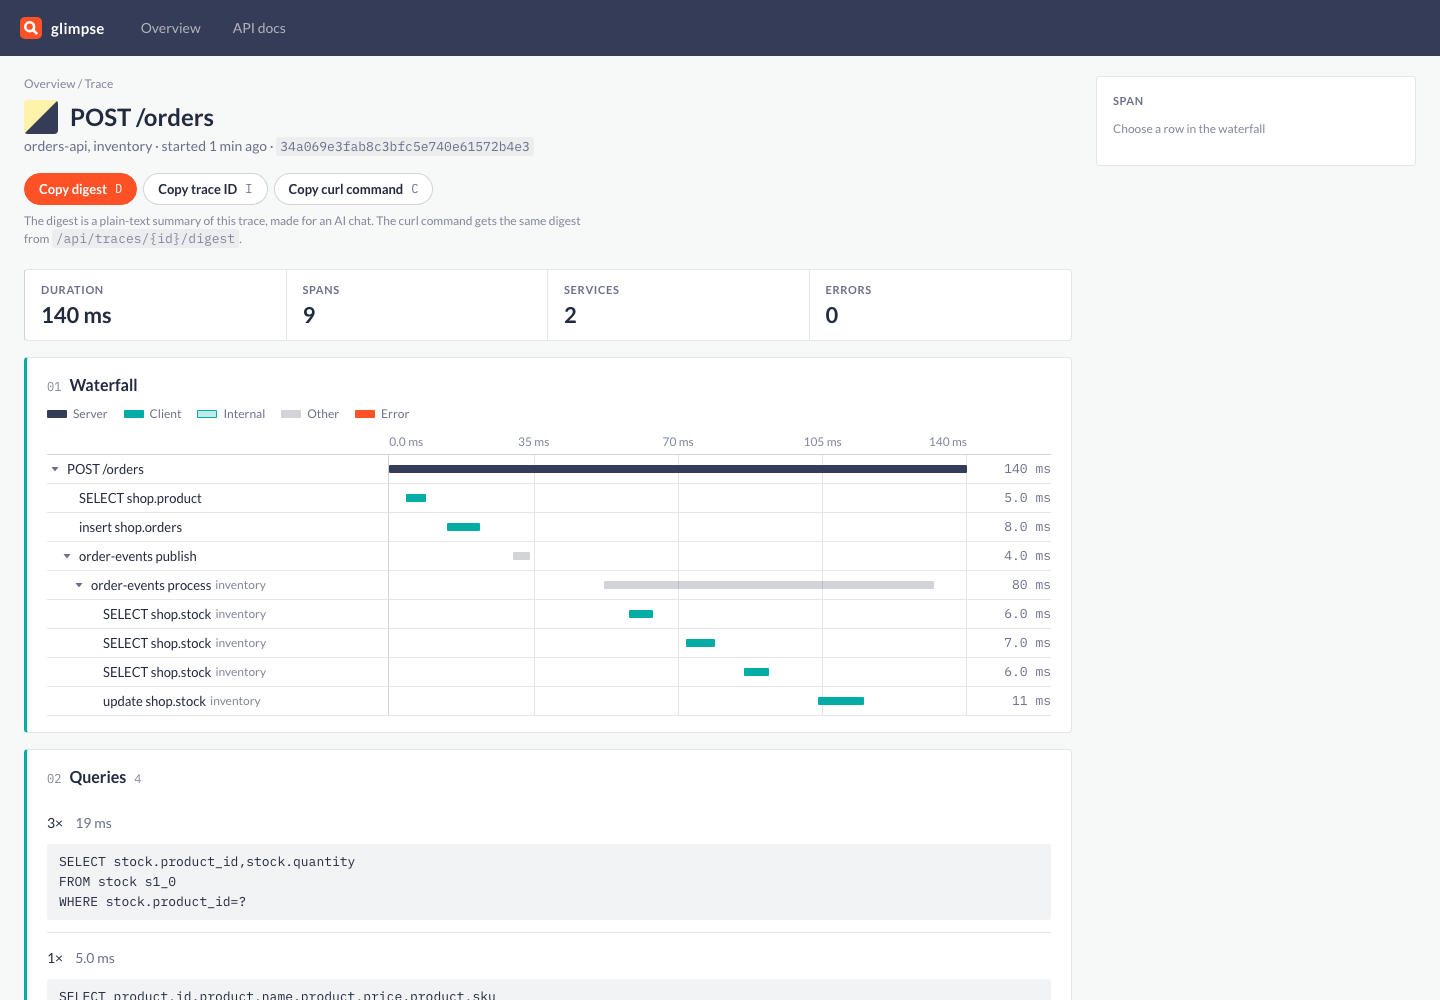
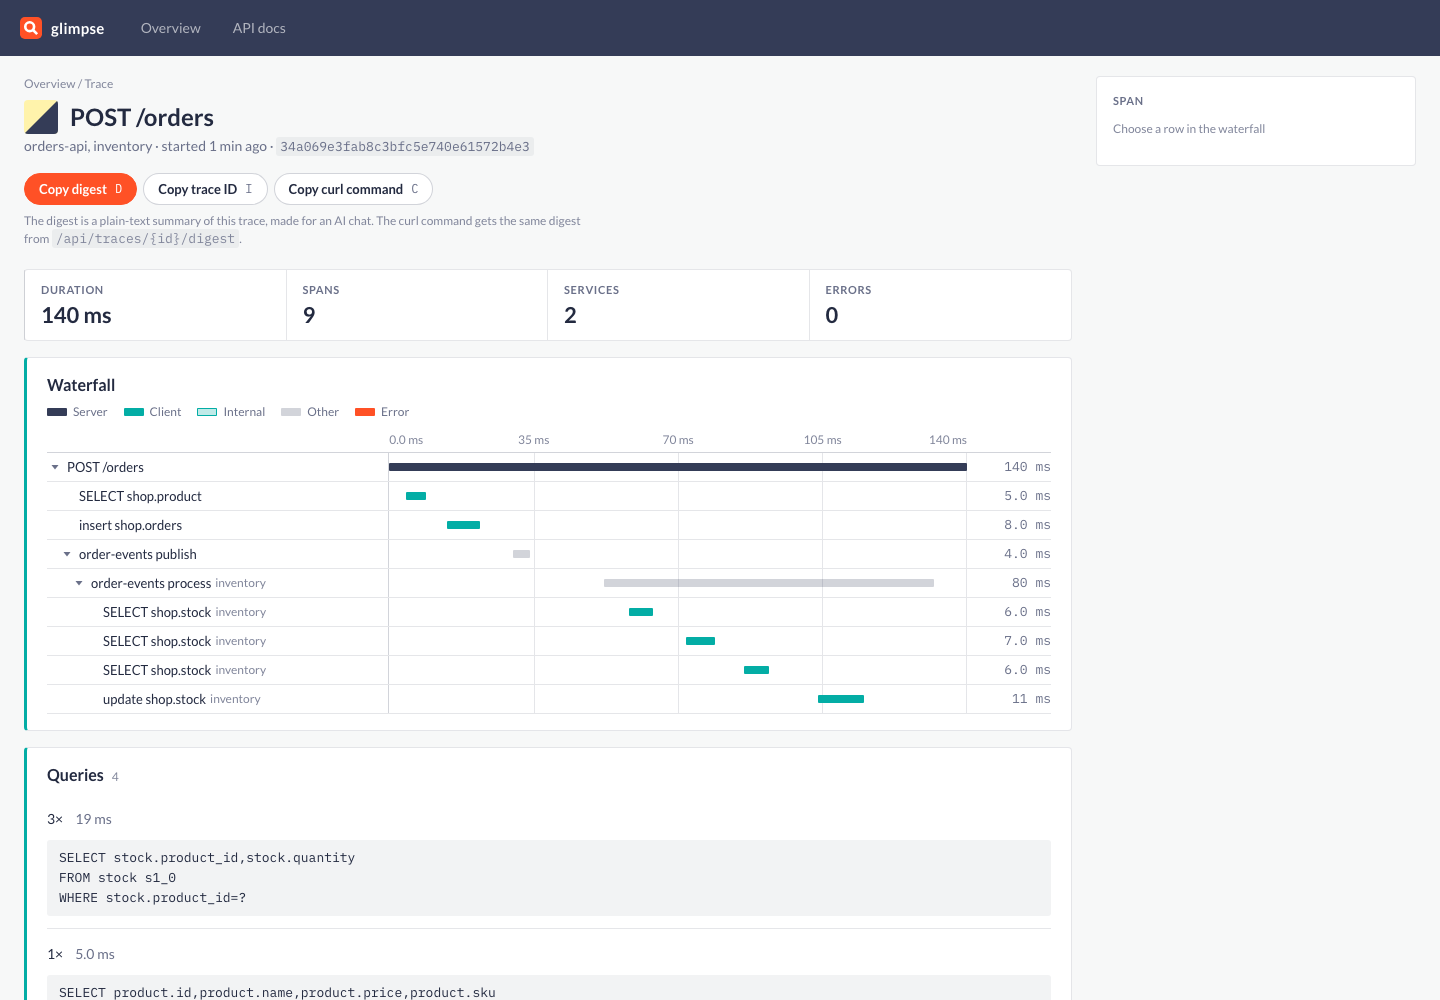
feat: tabs on the overview page, Explain sends db_system
The overview shows one tab at a time (Endpoints, N+1 suspects, Slow
queries, Errors) in place of one long scroll. The tab is in the URL
(#tab=...), and j/k and the arrow keys change it.

The Explain button sends the db_system of the statement, so the right
engine is used when SQL Server and Postgres are both configured.
/api/insights N+1 rows now have db_system.

Closes #2
Closes #3

Claude-Session: https://claude.ai/code/session_01HDKGEbKxBcKCVtWTQQ9KBN

diff --git a/cmd/server/ui/index.html b/cmd/server/ui/index.html
@@ -46,7 +46,7 @@
       padding: var(--space-5) var(--space-6) var(--space-8); }
 
   /* page */
-  .page { display: grid; grid-template-columns: minmax(0, 1fr) var(--page-index); column-gap: var(--space-6); }
+  .page { display: grid; grid-template-columns: minmax(0, 1fr); column-gap: var(--space-6); }
   .page.trace { grid-template-columns: minmax(0, 1fr) 320px; }
   .content { min-width: 0; }
   .crumb { font: 400 12px/16px var(--font-sans); color: var(--ink-faint); }
@@ -69,19 +69,21 @@
   .sec h2 { font: 600 16px/22px var(--font-sans); margin: 0 0 var(--space-2);
       display: flex; align-items: baseline; gap: var(--space-2); }
   .sec h2 small { font: 400 12px/16px var(--font-sans); color: var(--ink-faint); }
-  .sec-no { font: 400 12px/22px var(--font-mono); color: var(--ink-faint); }
   .sec-sub { margin: 0 0 var(--space-2); color: var(--ink-muted); }
 
   /* page index */
-  .index { position: sticky; top: calc(var(--chrome-height) + var(--space-5)); align-self: start; }
   .index-h { font: 600 11px/16px var(--font-sans); letter-spacing: 0.06em; text-transform: uppercase;
       color: var(--ink-muted); margin-bottom: var(--space-2); }
-  .ix { display: flex; align-items: center; gap: 6px; height: 32px; padding: 0 var(--space-2);
-      border-radius: var(--radius-md); color: var(--ink); font-size: 13.5px; }
-  .ix:hover { background: var(--hover); text-decoration: none; }
-  .ix.on { background: var(--selected); font-weight: 600; }
-  .ix-no { font: 400 12px/16px var(--font-mono); color: var(--ink-faint); margin-right: 6px; }
-  .ix .n { font: 400 12px/16px var(--font-sans); color: var(--ink-faint); }
+  .tabs { display: flex; gap: var(--space-1); margin-top: var(--space-5);
+      border-bottom: 1px solid var(--border-strong); overflow-x: auto; }
+  .tab { display: inline-flex; align-items: center; gap: var(--space-2); height: 40px; padding: 0 var(--space-3);
+      border: 0; background: none; cursor: pointer; white-space: nowrap;
+      font: 400 14px/20px var(--font-sans); color: var(--ink-muted); }
+  .tab:hover { color: var(--ink); }
+  .tab[aria-selected="true"] { color: var(--ink); font-weight: 600; box-shadow: inset 0 -3px var(--action); }
+  .tab .n { min-width: 22px; padding: 0 6px; border-radius: var(--radius-pill); background: var(--hover);
+      font: 600 12px/18px var(--font-sans); color: var(--ink-muted); text-align: center; }
+  .tab .n:empty { display: none; }
 
   /* button */
   .btn { height: var(--control); padding: 0 14px; border: 1px solid var(--border-strong); border-radius: var(--radius-pill);
@@ -257,7 +259,6 @@
     .sheet { padding: var(--space-4) var(--space-3) var(--space-8); }
     .sec { padding: var(--space-3); }
     .page, .page.trace { grid-template-columns: minmax(0, 1fr); }
-    .index { display: none; }
     .detail { position: static; max-height: none; margin-top: var(--space-7); }
     .plate { grid-template-columns: repeat(2, 1fr); }
     .btn { min-height: var(--touch); }
@@ -292,36 +293,35 @@
       <div><div class="fig" id="f-nplusone">–</div><div class="fig-l">N+1 suspects</div></div>
     </div>
 
-    <section class="sec" id="s-endpoints">
-      <h2><span class="sec-no">01</span>Endpoints <small id="c-endpoints"></small></h2>
+    <div class="tabs" id="tabs" role="tablist" aria-label="Insights">
+      <button class="tab" role="tab" data-tab="endpoints">Endpoints<span class="n" id="i-endpoints"></span></button>
+      <button class="tab" role="tab" data-tab="nplusone">N+1 suspects<span class="n" id="i-nplusone"></span></button>
+      <button class="tab" role="tab" data-tab="slowq">Slow queries<span class="n" id="i-slowq"></span></button>
+      <button class="tab" role="tab" data-tab="errors">Errors<span class="n" id="i-errors"></span></button>
+    </div>
+
+    <section class="sec" id="s-endpoints" data-tab="endpoints">
+      <h2>Endpoints <small id="c-endpoints"></small></h2>
       <div id="endpoints"></div>
     </section>
-    <section class="sec" id="s-traces">
-      <h2><span class="sec-no">02</span>Traces <small id="c-traces"></small></h2>
+    <section class="sec" id="s-traces" data-tab="endpoints">
+      <h2>Traces <small id="c-traces"></small></h2>
       <p class="sec-sub" id="traces-of" hidden></p>
       <div id="traces"></div>
     </section>
-    <section class="sec" id="s-nplusone">
-      <h2><span class="sec-no">03</span>N+1 suspects <small id="c-nplusone"></small></h2>
+    <section class="sec" id="s-nplusone" data-tab="nplusone">
+      <h2>N+1 suspects <small id="c-nplusone"></small></h2>
       <div id="nplusone"></div>
     </section>
-    <section class="sec" id="s-slowq">
-      <h2><span class="sec-no">04</span>Slowest queries <small id="c-slowq"></small></h2>
+    <section class="sec" id="s-slowq" data-tab="slowq">
+      <h2>Slowest queries <small id="c-slowq"></small></h2>
       <div id="slowq"></div>
     </section>
-    <section class="sec" id="s-errors">
-      <h2><span class="sec-no">05</span>Recent errors <small id="c-errors"></small></h2>
+    <section class="sec" id="s-errors" data-tab="errors">
+      <h2>Recent errors <small id="c-errors"></small></h2>
       <div id="errors"></div>
     </section>
   </div>
-  <aside class="index" aria-label="On this page">
-    <div class="index-h">On this page</div>
-    <a class="ix" href="#s-endpoints"><span><span class="ix-no">01</span><span class="ix-t">Endpoints</span></span><span class="dots"></span><span class="n" id="i-endpoints"></span></a>
-    <a class="ix" href="#s-traces"><span><span class="ix-no">02</span><span class="ix-t">Traces</span></span><span class="dots"></span><span class="n" id="i-traces"></span></a>
-    <a class="ix" href="#s-nplusone"><span><span class="ix-no">03</span><span class="ix-t">N+1 suspects</span></span><span class="dots"></span><span class="n" id="i-nplusone"></span></a>
-    <a class="ix" href="#s-slowq"><span><span class="ix-no">04</span><span class="ix-t">Slowest queries</span></span><span class="dots"></span><span class="n" id="i-slowq"></span></a>
-    <a class="ix" href="#s-errors"><span><span class="ix-no">05</span><span class="ix-t">Recent errors</span></span><span class="dots"></span><span class="n" id="i-errors"></span></a>
-  </aside>
 </div>
 
 <div id="trace-page" class="page trace" hidden>
@@ -344,7 +344,7 @@
     </div>
 
     <section class="sec" id="s-waterfall">
-      <h2><span class="sec-no">01</span>Waterfall</h2>
+      <h2>Waterfall</h2>
       <div class="legend">
         <span><span class="wf-bar k-server"></span>Server</span>
         <span><span class="wf-bar k-client"></span>Client</span>
@@ -355,7 +355,7 @@
       <div class="wf-scroll"><div class="wf" id="waterfall"></div></div>
     </section>
     <section class="sec" id="s-queries">
-      <h2><span class="sec-no">02</span>Queries <small id="c-queries"></small></h2>
+      <h2>Queries <small id="c-queries"></small></h2>
       <div id="side-queries"></div>
     </section>
   </div>
@@ -609,7 +609,8 @@ function renderPlan(p) {
   return h + `<div><button class="btn copyxml" data-size="sm">Copy plan ${p.plan_json ? "JSON" : "XML"}</button></div>`;
 }
 
-function attachExplain(container, statements) {
+// items[i] has the statement and, when known, the db_system of button i.
+function attachExplain(container, items) {
   container.querySelectorAll("button.explain").forEach(b => {
     b.onclick = async () => {
       const row = b.closest(".q");
@@ -623,7 +624,8 @@ function attachExplain(container, statements) {
         const r = await fetch("/api/queryplan", {
           method: "POST",
           headers: {"Content-Type": "application/json"},
-          body: JSON.stringify({statement: statements[+b.dataset.x]}),
+          body: JSON.stringify({statement: items[+b.dataset.x].statement,
+                                db_system: items[+b.dataset.x].db_system || undefined}),
         });
         const p = await r.json();
         if (!r.ok) throw new Error(p.detail || p.title || r.status);
@@ -685,7 +687,7 @@ async function loadOverview() {
       <span class="st" data-tone="warn">${n.repetitions}× the same query</span>
       <span class="muted">${fmtMs(n.total_ms)} wasted</span>
       <span class="q-acts">${explainBtn(i)}<a href="${traceURL(n.trace_id)}">View trace</a></span>`),
-    bind: el => { initSqlClamps(el); attachExplain(el, ins.n_plus_one.map(n => n.statement)); },
+    bind: el => { initSqlClamps(el); attachExplain(el, ins.n_plus_one); },
   });
 
   setCount("slowq", ins.slow_queries.length);
@@ -695,7 +697,7 @@ async function loadOverview() {
     render: shown => queryRows(shown, (q, i) => `
       <span class="muted">Avg ${fmtMs(q.avg_ms)} · max ${fmtMs(q.max_ms)} · ${q.calls} call${q.calls > 1 ? "s" : ""} · ${esc(q.db_system)}</span>
       <span class="q-acts">${explainBtn(i)}<a href="${traceURL(q.example_trace)}">View slowest trace</a></span>`),
-    bind: el => { initSqlClamps(el); attachExplain(el, ins.slow_queries.map(q => q.statement)); },
+    bind: el => { initSqlClamps(el); attachExplain(el, ins.slow_queries); },
   });
 
   setCount("errors", ins.errors.length);
@@ -717,7 +719,7 @@ const traceStatus = t => t.error
 function clearTraces() {
   currentEndpoint = null;
   $("traces-of").hidden = true;
-  $("c-traces").textContent = $("i-traces").textContent = "";
+  $("c-traces").textContent = "";
   $("traces").innerHTML = emptyHTML("No endpoint chosen", "Choose a row in Endpoints to list its recent traces.");
 }
 
@@ -864,7 +866,8 @@ function renderSideQueries(spans) {
   for (const s of spans) {
     const sql = (s.attrs || {})["db.statement"] || (s.attrs || {})["db.query.text"];
     if (!sql) continue;
-    (groups[sql] ??= {statement: sql, count: 0, totalMs: 0}).count++;
+    const dbSystem = (s.attrs || {})["db.system.name"] || (s.attrs || {})["db.system"];
+    (groups[sql] ??= {statement: sql, db_system: dbSystem, count: 0, totalMs: 0}).count++;
     groups[sql].totalMs += s.duration_ms;
   }
   const list = Object.values(groups).sort((a, b) => b.count - a.count);
@@ -876,7 +879,7 @@ function renderSideQueries(spans) {
       ${g.count >= 5 ? `<span class="st" data-tone="warn">${g.count}× · possible N+1</span>` : `<span>${g.count}×</span>`}
       <span class="muted">${fmtMs(g.totalMs)}</span>
       <span class="q-acts">${explainBtn(i)}</span>`),
-    bind: el => { initSqlClamps(el); attachExplain(el, list.map(g => g.statement)); },
+    bind: el => { initSqlClamps(el); attachExplain(el, list); },
   });
 }
 
@@ -928,6 +931,11 @@ document.addEventListener("keydown", e => {
   if (t.matches?.("input, textarea, select")) return;
   const key = e.key.toLowerCase();
   if (key === "j" || key === "k") {
+    if (!$("index-page").hidden) {
+      const i = TABS.indexOf(currentTab()) + (key === "j" ? 1 : -1);
+      showTab(TABS[Math.min(Math.max(i, 0), TABS.length - 1)]);
+      return;
+    }
     const secs = visibleSections();
     const cur = currentSection(secs);
     const next = key === "j" ? Math.min(cur + 1, secs.length - 1) : Math.max(cur - 1, 0);
@@ -940,16 +948,39 @@ document.addEventListener("keydown", e => {
   }
 });
 
-// The page index follows the scroll position.
-let indexFrame = 0;
-addEventListener("scroll", () => {
-  if (indexFrame || $("index-page").hidden) return;
-  indexFrame = requestAnimationFrame(() => {
-    indexFrame = 0;
-    const cur = Math.max(currentSection(visibleSections()), 0);
-    document.querySelectorAll(".index .ix").forEach((a, i) => a.classList.toggle("on", i === cur));
+/* ============ tabs ============ */
+
+// One tab of the overview is visible at a time. The tab is in the URL hash.
+const TABS = ["endpoints", "nplusone", "slowq", "errors"];
+const currentTab = () => document.querySelector('#tabs .tab[aria-selected="true"]').dataset.tab;
+function showTab(name) {
+  if (!TABS.includes(name)) name = TABS[0];
+  document.querySelectorAll("#tabs .tab").forEach(t => {
+    const on = t.dataset.tab === name;
+    t.setAttribute("aria-selected", on);
+    t.tabIndex = on ? 0 : -1;
   });
-}, {passive: true});
+  document.querySelectorAll("#index-page .sec").forEach(s => {
+    s.hidden = s.dataset.tab !== name;
+    if (!s.hidden) initSqlClamps(s);   // the clamp is measured, so only when visible
+  });
+  // "#tab=" and not the bare name: the name is also an element id, and the browser would scroll to it.
+  history.replaceState(null, "", name === TABS[0] ? location.pathname : "#tab=" + name);
+}
+function initTabs() {
+  const tabs = [...document.querySelectorAll("#tabs .tab")];
+  tabs.forEach((t, i) => {
+    t.onclick = () => showTab(t.dataset.tab);
+    t.onkeydown = e => {
+      const step = e.key === "ArrowRight" ? 1 : e.key === "ArrowLeft" ? -1 : 0;
+      if (!step) return;
+      const next = tabs[(i + step + tabs.length) % tabs.length];
+      next.click();
+      next.focus();
+    };
+  });
+  showTab(location.hash.replace("#tab=", ""));
+}
 
 /* ============ router ============ */
 
@@ -960,7 +991,7 @@ if (traceMatch) {
 } else {
   $("index-page").hidden = false;
   $("nav-overview").classList.add("on");
-  document.querySelector(".index .ix").classList.add("on");
+  initTabs();
   renderWindow();
   clearTraces();
   $("wipe").onclick = () => {

diff --git a/cmd/server/ui/tokens.css b/cmd/server/ui/tokens.css
@@ -68,7 +68,6 @@
   --control: 32px;
   --control-sm: 26px;
   --row: 36px;
-  --page-index: 220px;
   --measure: 640px;
   --touch: 44px;
   --duration-press: 100ms;

diff --git a/db/spans.sql.go b/db/spans.sql.go
@@ -274,13 +274,13 @@ func (q *Queries) ListErrorSpans(ctx context.Context, startNs int64) ([]ListErro
 }
 
 const listNPlusOne = `-- name: ListNPlusOne :many
-SELECT trace_id, db_statement,
+SELECT trace_id, db_system, db_statement,
     COUNT(*)          AS reps,
     CAST(SUM(duration_ns) AS INTEGER)  AS total_ns,
     CAST(MAX(start_ns) AS INTEGER)     AS last_seen_ns
 FROM spans
 WHERE db_statement != '' AND start_ns >= ?
-GROUP BY trace_id, db_statement
+GROUP BY trace_id, db_system, db_statement
 HAVING COUNT(*) >= 5
 ORDER BY reps DESC
 LIMIT 50
@@ -288,6 +288,7 @@ LIMIT 50
 
 type ListNPlusOneRow struct {
 	TraceID     string
+	DbSystem    string
 	DbStatement string
 	Reps        int64
 	TotalNs     int64
@@ -305,6 +306,7 @@ func (q *Queries) ListNPlusOne(ctx context.Context, startNs int64) ([]ListNPlusO
 		var i ListNPlusOneRow
 		if err := rows.Scan(
 			&i.TraceID,
+			&i.DbSystem,
 			&i.DbStatement,
 			&i.Reps,
 			&i.TotalNs,

diff --git a/cmd/server/api.go b/cmd/server/api.go
@@ -89,6 +89,7 @@ type GetTraceOutput struct {
 
 type NPlusOne struct {
 	TraceID   string  `json:"trace_id"`
+	DbSystem  string  `json:"db_system"`
 	Statement string  `json:"statement"`
 	Reps      int64   `json:"repetitions"`
 	TotalMs   float64 `json:"total_ms"`
@@ -253,6 +254,7 @@ func registerAPI(api huma.API, database *sql.DB, queries *gendb.Queries) {
 		for _, r := range nplus {
 			out.Body.NPlusOne = append(out.Body.NPlusOne, NPlusOne{
 				TraceID:   r.TraceID,
+				DbSystem:  r.DbSystem,
 				Statement: r.DbStatement,
 				Reps:      r.Reps,
 				TotalMs:   ms(r.TotalNs),

diff --git a/README.md b/README.md
@@ -12,7 +12,9 @@ It is made for two readers:
 - **A person**, through the built-in UI.
 - **An AI agent**, through a plain-text digest of one trace and a small JSON API.
 
-![Overview: endpoints, N+1 suspects, slow queries, errors](docs/screenshots/overview.png)
+![Overview: endpoints, with tabs for N+1 suspects, slow queries and errors](docs/screenshots/overview.png)
+
+![N+1 suspects tab: the repeated statement of each trace](docs/screenshots/nplusone.png)
 
 ![Trace page: waterfall across two services, with the queries of the trace](docs/screenshots/trace.png)
 
